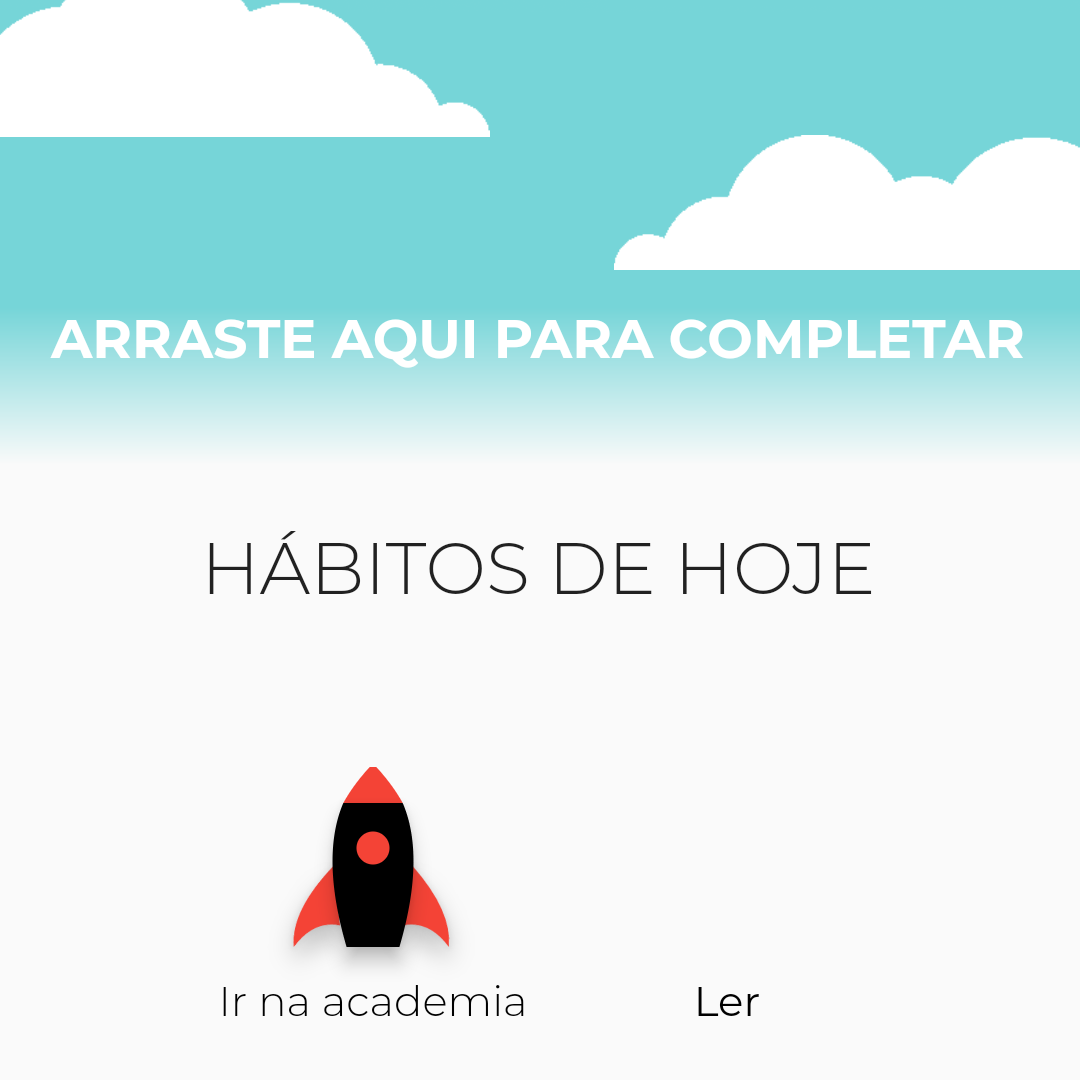
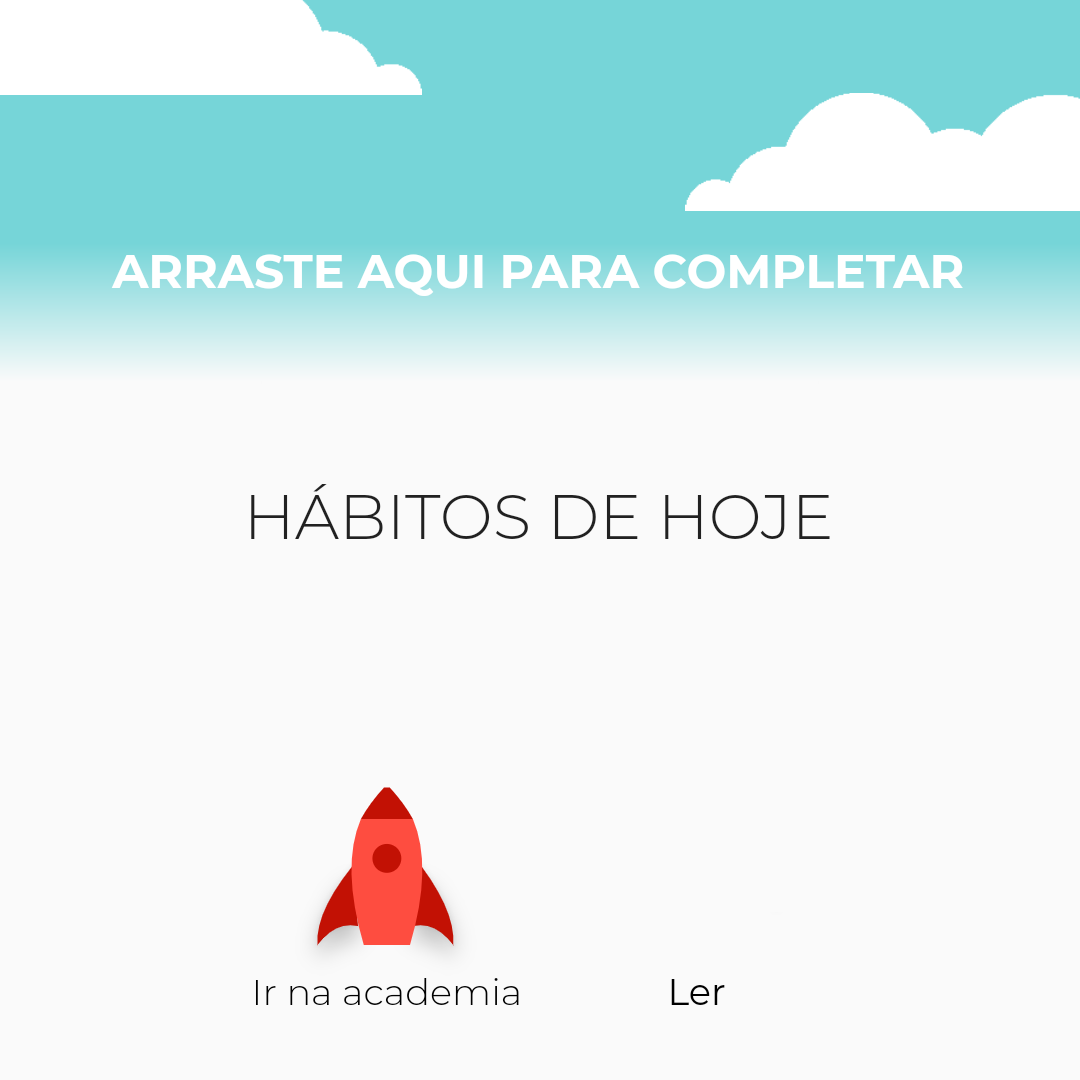
Imagens do tutorial arrumado

diff --git a/lib/ui/tutorialPage.dart b/lib/ui/tutorialPage.dart
@@ -161,8 +161,8 @@ class Initial extends StatelessWidget {
             height: 100,
             alignment: Alignment.center,
             child: Text(
-              "HÁBITOS",
-              style: TextStyle(color: Colors.white, fontSize: 26, fontWeight: FontWeight.bold),
+              "ALTITUDE",
+              style: TextStyle(color: Colors.white, fontSize: 36, fontWeight: FontWeight.bold),
             ),
           ),
           Expanded(
@@ -183,7 +183,7 @@ class Initial extends StatelessWidget {
                     angle: 0.8,
                     child: Rocket(
                       size: const Size(200, 190),
-                      color: AppColors.habitsColor[0],
+                      color: AppColors.habitsColor[3],
                       state: RocketState.ON_FIRE,
                       fireForce: 1,
                     ),
@@ -323,7 +323,7 @@ class _CompleteHabitState extends State<CompleteHabit> with SingleTickerProvider
 
     positionYRocketAnimation = Tween<double>(
       begin: 1,
-      end: -0.55,
+      end: -0.65,
     ).animate(
       CurvedAnimation(
         parent: _controller,
@@ -335,8 +335,8 @@ class _CompleteHabitState extends State<CompleteHabit> with SingleTickerProvider
       ),
     );
     positionXRocketAnimation = Tween<double>(
-      begin: 0.5,
-      end: 0.2,
+      begin: 0.4,
+      end: 0.1,
     ).animate(
       CurvedAnimation(
         parent: _controller,
@@ -349,7 +349,7 @@ class _CompleteHabitState extends State<CompleteHabit> with SingleTickerProvider
     );
     positionYFingerAnimation = Tween<double>(
       begin: 1.7,
-      end: -0.15,
+      end: -0.25,
     ).animate(
       CurvedAnimation(
         parent: _controller,
@@ -361,8 +361,8 @@ class _CompleteHabitState extends State<CompleteHabit> with SingleTickerProvider
       ),
     );
     positionXFingerAnimation = Tween<double>(
-      begin: 1.9,
-      end: 1.45,
+      begin: 1.8,
+      end: 1.35,
     ).animate(
       CurvedAnimation(
         parent: _controller,
@@ -534,11 +534,11 @@ class _ScoreState extends State<Score> with SingleTickerProviderStateMixin {
                     borderRadius: BorderRadius.circular(50),
                     boxShadow: <BoxShadow>[BoxShadow(blurRadius: 10, color: Colors.black.withOpacity(0.3))]),
                 child: Align(
-                    alignment: Alignment(0, -0.48),
+                    alignment: Alignment(0, -0.41),
                     child: Text(
                       scoreAnimation.value.toInt().toString(),
                       textAlign: TextAlign.center,
-                      style: TextStyle(fontSize: 50, fontWeight: FontWeight.bold, height: 0.2, color: Colors.black),
+                      style: TextStyle(fontSize: 47, fontWeight: FontWeight.bold, height: 0.2, color: Colors.black),
                     ),
                   ),
               ),
@@ -550,7 +550,7 @@ class _ScoreState extends State<Score> with SingleTickerProviderStateMixin {
               child: Padding(
                 padding: const EdgeInsets.only(right: 16, left: 16),
                 child: Text(
-                  "A cada vez que você completar um hábito o seu foguete elevará de altitude, o espaço é o limite!",
+                  "A cada vez que você completar um hábito o seu foguete subirá de altitude, o espaço é o limite!",
                   textAlign: TextAlign.center,
                   style: TextStyle(color: Colors.white, fontSize: 21),
                 ),

diff --git a/lib/main.dart b/lib/main.dart
@@ -194,7 +194,7 @@ class _MainPageState extends State<MainPage> with TickerProviderStateMixin {
                     crossAxisAlignment: CrossAxisAlignment.start,
                     children: <Widget>[
                       SizedBox(
-                        width: 40,
+                        width: 30,
                       ),
                       ScoreWidget(
                         animation: IntTween(begin: previousScore, end: score)
@@ -204,8 +204,8 @@ class _MainPageState extends State<MainPage> with TickerProviderStateMixin {
                       ),
                       Image.asset(
                         LevelControl.getLevelImagePath(score),
-                        height: 40,
-                        width: 40,
+                        height: 30,
+                        width: 30,
                       ),
                     ],
                   ),
